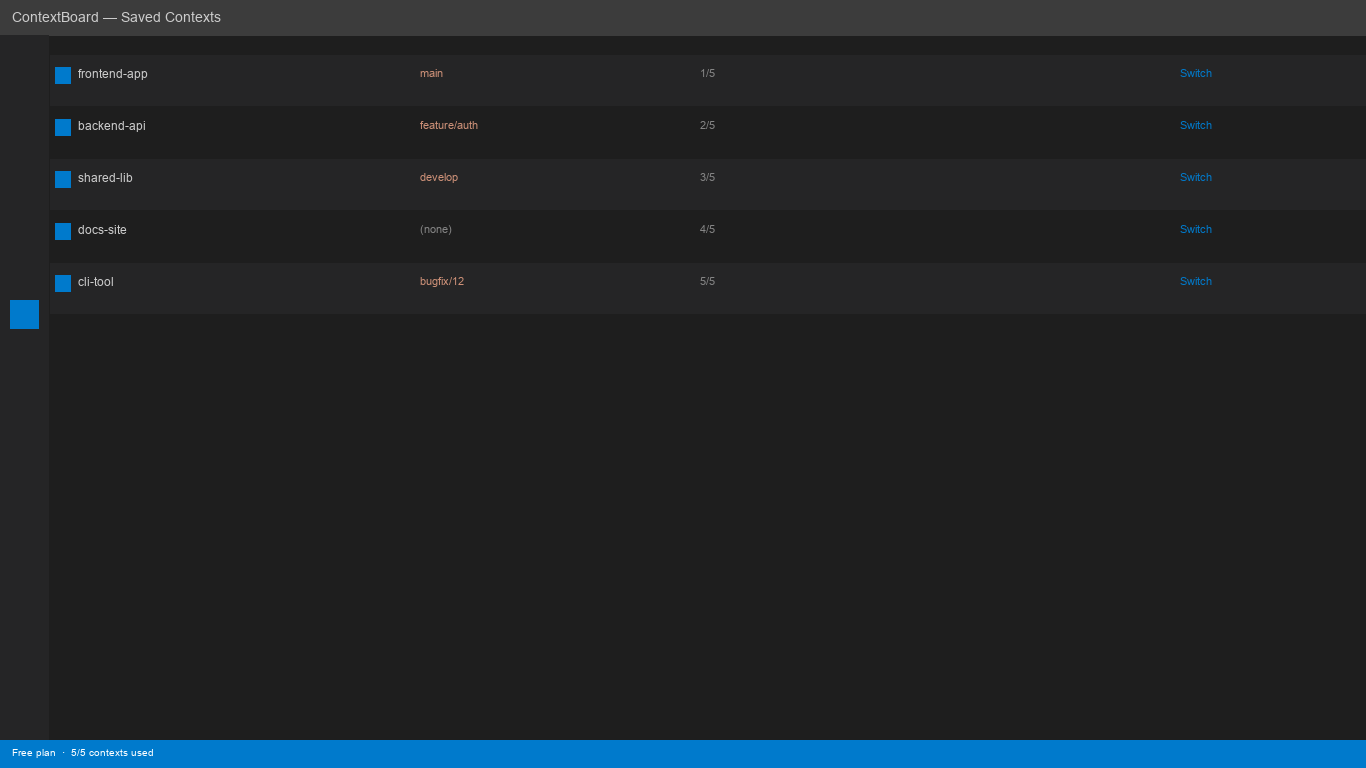
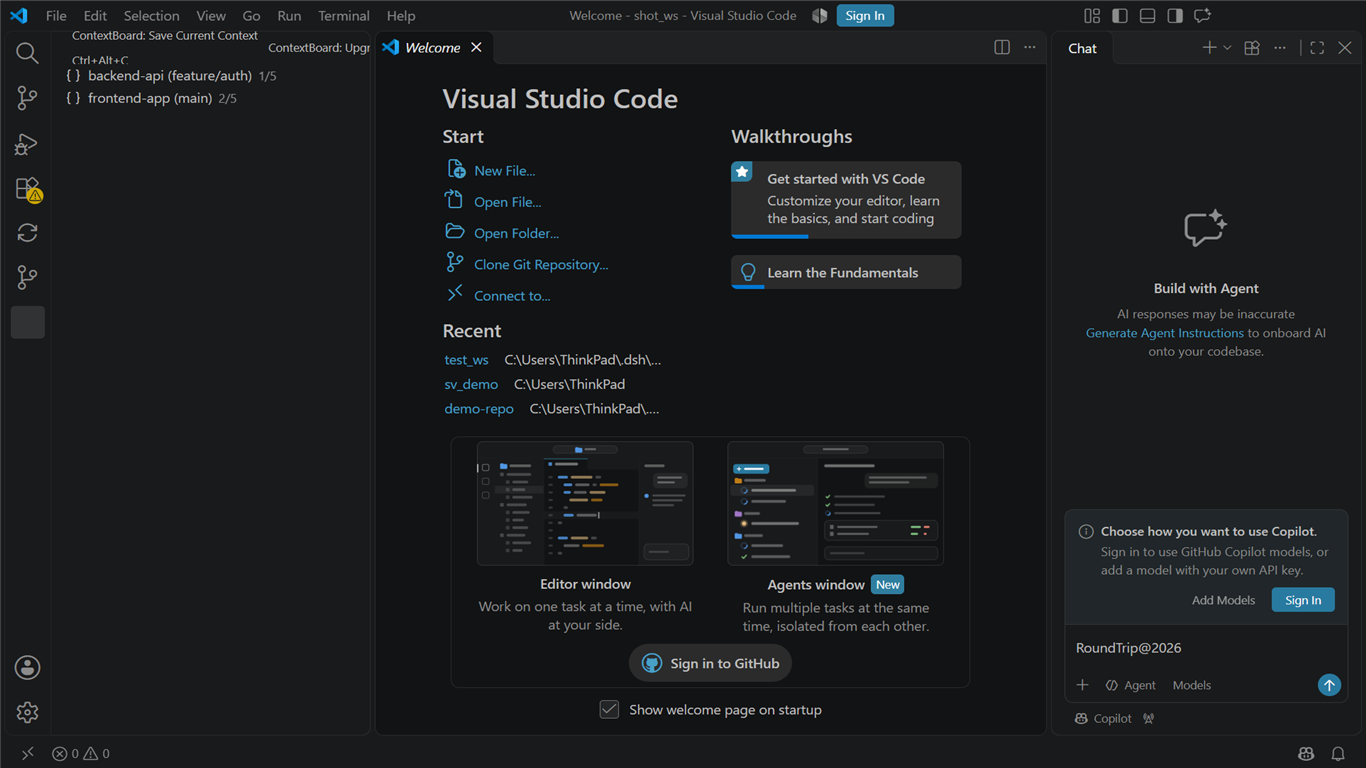
v1.0.2: fix verifyEndpoint to 463102527, real screenshots

diff --git a/privacy-policy.html b/privacy-policy.html
@@ -12,7 +12,7 @@
 <div>
 <h2>1. What we collect</h2>
 <p>ContextBoard <strong>does not collect any personal data or usage telemetry</strong>. All operations happen locally on your machine.</p>
-<p>The only network call occurs when you activate a Pro license key against our verification endpoint (<code>snapmark-license.61960005.workers.dev</code>). This transmits only the license key string (a short alphanumeric token); our backend validates it and returns a boolean. No other data is sent.</p>
+<p>The only network call occurs when you activate a Pro license key against our verification endpoint (<code>snapmark-license.463102527.workers.dev</code>). This transmits only the license key string (a short alphanumeric token); our backend validates it and returns a boolean. No other data is sent.</p>
 </div>
 
 <div>
@@ -32,7 +32,7 @@
 <h2>3. Third-party services</h2>
 <ul>
 <li><strong>Paddle Billing</strong> — processes payment for the Pro upgrade. See the Paddle Privacy Policy.</li>
-<li><strong>Cloudflare Workers + KV</strong> — hosts the license verification API at <code>snapmark-license.61960005.workers.dev</code>. Cloudflare's standard logging applies to this endpoint. License keys are stored in Cloudflare KV (marked expired on cancellation, not deleted).</li>
+<li><strong>Cloudflare Workers + KV</strong> — hosts the license verification API at <code>snapmark-license.463102527.workers.dev</code>. Cloudflare's standard logging applies to this endpoint. License keys are stored in Cloudflare KV (marked expired on cancellation, not deleted).</li>
 </ul>
 <p>There is no third-party analytics, advertising, or tracking within ContextBoard.</p>
 </div>

diff --git a/extension.js b/extension.js
@@ -32,6 +32,17 @@ function registerCommands(context) {
   const tree = new ContextTreeProvider(context);
   context.subscriptions.push(vscode.window.registerTreeDataProvider('contextboard-tree', tree));
 
+  // VS Code renders a tree view lazily: the panel shows a spinner until the provider fires
+  // onDidChangeTreeData at least once *after* the view has mounted. Nothing else fires it for
+  // this view, so the panel stayed blank on first open. Run the refresh command on a short
+  // timer so at least one refresh lands once the panel exists.
+  let refreshTicks = 0;
+  const refreshTimer = setInterval(() => {
+    void vscode.commands.executeCommand('contextboard.refreshTree');
+    if (++refreshTicks >= 40) clearInterval(refreshTimer);
+  }, 250);
+  context.subscriptions.push({ dispose: () => clearInterval(refreshTimer) });
+
   // Refresh button
   context.subscriptions.push(vscode.commands.registerCommand('contextboard.refreshTree', () => {
     tree.refresh();

diff --git a/lib/contexts.js b/lib/contexts.js
@@ -117,7 +117,7 @@ function listAll(context) {
 
 // ── License ──────────────────────────────────────────────────────────────────
 
-const DEFAULT_VERIFY_ENDPOINT = 'https://snapmark-license.61960005.workers.dev/verify';
+const DEFAULT_VERIFY_ENDPOINT = 'https://snapmark-license.463102527.workers.dev/verify';
 
 function readCfg() {
   const c = vscode.workspace.getConfiguration('contextboard');

diff --git a/materials/STORE_DESCRIPTION.md b/materials/STORE_DESCRIPTION.md
@@ -34,7 +34,7 @@ Unlock additional capabilities:
 - CWD captured from `vscode.workspace.workspaceFolders[0].uri.fsPath`.
 - Git branch via `git rev-parse --abbrev-ref HEAD` run locally.
 - All data stored in VS Code `globalState` — local JSON only.
-- License verification: single POST to `snapmark-license.61960005.workers.dev/verify`; transmits only the license key string.
+- License verification: single POST to `snapmark-license.463102527.workers.dev/verify`; transmits only the license key string.
 
 ### Who is this for?
 Developers who juggle multiple repositories daily — frontend/backend pairs, monorepos with independent services, or feature branches that require separate terminal setups.

diff --git a/README.md b/README.md
@@ -35,7 +35,7 @@ Perfect for developers juggling multiple projects or switching between feature b
 ## Privacy & data handling
 
 - All contexts are stored locally in VS Code's `globalState`. Nothing leaves your machine.
-- The only network call is to the license verification endpoint (`snapmark-license.61960005.workers.dev`) when activating a Pro license key.
+- The only network call is to the license verification endpoint (`snapmark-license.463102527.workers.dev`) when activating a Pro license key.
 - See [privacy-policy.html](privacy-policy.html) for full details.
 
 ## Tech details
